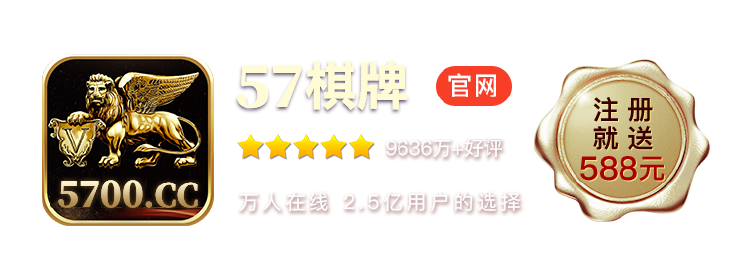
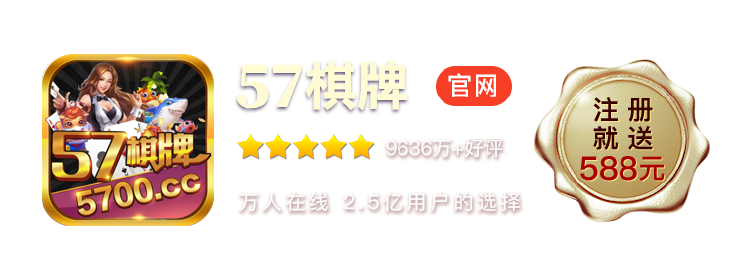
update

Changed region(s): [[0.0307, 0.1778, 0.3067, 0.8593]]

diff --git a/5700.cc/index.html b/5700.cc/index.html
@@ -11,24 +11,24 @@
     <link rel="stylesheet" href="css/swiper.min.css" type="text/css">
     <link rel="stylesheet" href="css/animate.min.css" type="text/css">
     <script src="js/rem.js"></script>
-    <script src="https://res.ccsdyjx.com/static-res/jssdk/release/link-deep.min.js"></script>
+    <!-- <script src="https://res.ccsdyjx.com/static-res/jssdk/release/link-deep.min.js"></script> -->
 		<script>
-		  new LinkDeep({
-			appKey: '这里对应linkdeep的key',
-			onReady: function (wakeupOrInstall, wakeup) {
-			  wakeup()
-			  $('.download').on('click', function () {
-				console.log('download')
-				wakeupOrInstall()
-			  })
-			}
-		  })
+		//   new LinkDeep({
+		// 	appKey: '这里对应linkdeep的key',
+		// 	onReady: function (wakeupOrInstall, wakeup) {
+		// 	  wakeup()
+		// 	  $('.download').on('click', function () {
+		// 		console.log('download')
+		// 		wakeupOrInstall()
+		// 	  })
+		// 	}
+		//   })
 		</script>
 </head>
 <body>
 <div class="main">
     <div class="logo">
-        <img src="images/index_logo_328x102.png">
+        <img src="images/index_logo_380x126.png">
     </div>
     <div class="banner">
         <img src="images/index_banner.png">

diff --git a/5700.cc/css/style.min.css b/5700.cc/css/style.min.css
@@ -43,7 +43,7 @@ button,dd,dl,dt,h1,h2,h3,h4,h5,li,p,ul{margin:0;padding:0;list-style:none}
 
 .main > .logo {
     width: 100%;
-    height: 1.3rem;
+    height: 1.62rem;
     display: flex;
     justify-content: center;
     align-items: center;
